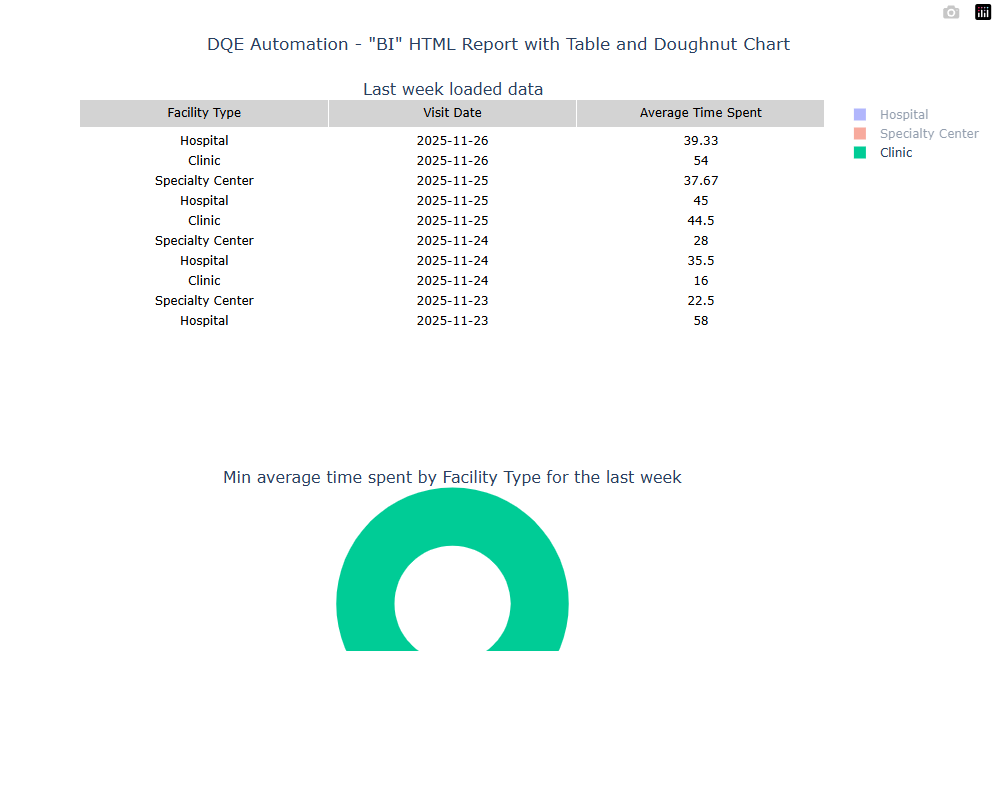
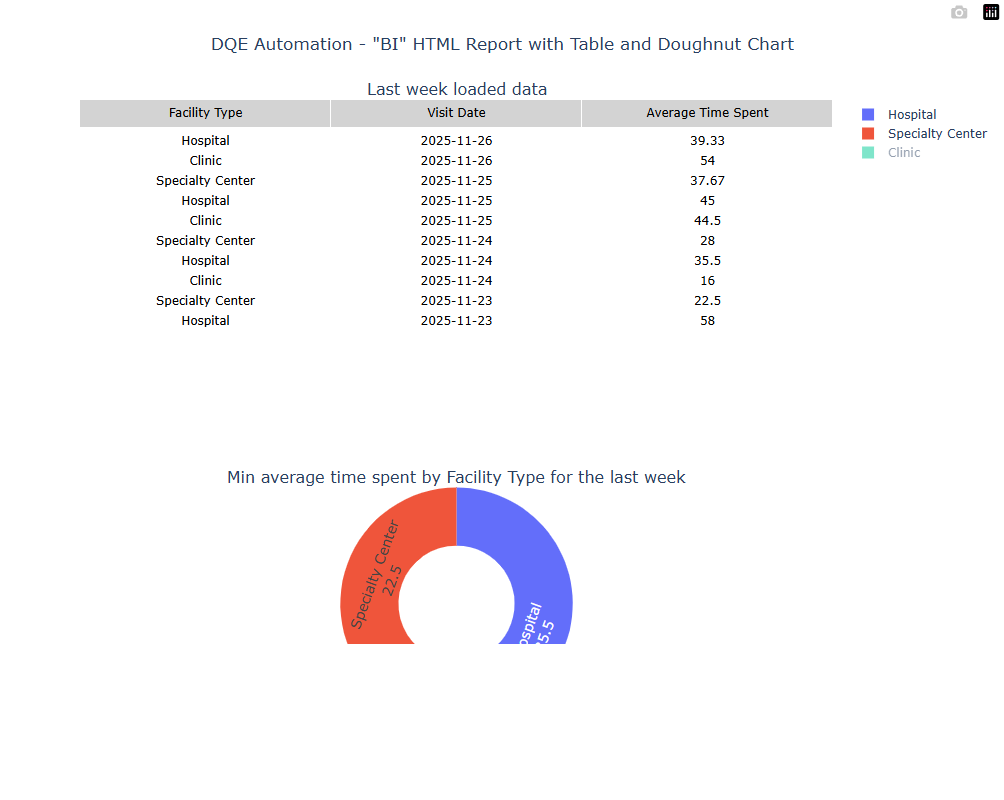
selenium4

diff --git a/Selenium Introduction/main.py b/Selenium Introduction/main.py
@@ -1,26 +1,24 @@
-
-import csv
-import os
-import time
+import csv, os, time
 from typing import List, Tuple, Dict, Any
 
 from selenium import webdriver
 from selenium.webdriver.common.by import By
-from selenium.webdriver.edge.options import Options
+# from selenium.webdriver.edge.options import Options
 from selenium.webdriver.support.ui import WebDriverWait
 from selenium.webdriver.support import expected_conditions as EC
 
+from selenium.webdriver import Chrome
+from selenium.webdriver.chrome.options import Options
 
 GRAPH_ID = "f2be9861-78e2-4f00-aa5f-9778ee33830a"
-
 
 # ---------- Driver & Page ----------
 
 def init_driver(headless: bool = False) -> Tuple[webdriver.Edge, WebDriverWait]:
     try:
         opts = Options()
-        # if headless: opts.add_argument("--headless=new")
-        driver = webdriver.Edge(options=opts)
+        # driver = webdriver.Edge(options=opts)
+        driver = Chrome(options=opts)
         wait = WebDriverWait(driver, 20)
         return driver, wait
     except Exception as e:
@@ -184,39 +182,37 @@ def run(headless: bool = False, report_path: str = "report.html") -> None:
         svg = get_svg(graph, wait)
 
         # Initial doughnut
+
+        # Initial doughnut
         screenshot_idx = 0
         csv_idx = 0
         pairs, screenshot_idx = extract_doughnut_chart(driver, graph, svg, screenshot_idx)
         csv_idx = save_doughnut_data(pairs, csv_idx)
 
-        # Iterate filters: one label visible at a time
+        # Iterate: each next state hides one more label than previous
         state = js_get_pie_state(driver, graph)
         labels = state.get("labels", [])
         if labels:
-            for lbl in labels:
+            # Кроки:
+            # 1) приховати 1-й лейбл -> залишиться N-1 сегмент
+            # 2) приховати 1-й і 2-й -> залишиться N-2 сегменти
+            # ...
+            # N) приховати всі -> 0 сегментів
+            for hide_count in range(1, len(labels) + 1):
                 try:
                     before = js_get_pie_state(driver, graph).get("hiddenlabels", [])
-                    hidden = [x for x in labels if x != lbl]
+                    hidden = labels[:hide_count]  # прогресивно додаємо приховані
                     js_set_hiddenlabels(driver, graph, hidden)
                     wait_hiddenlabels_change(driver, graph, before)
+                    # невелика пауза, щоб рендер стабілізувався
+                    time.sleep(0.2)
                     pairs, screenshot_idx = extract_doughnut_chart(driver, graph, svg, screenshot_idx)
                     csv_idx = save_doughnut_data(pairs, csv_idx)
                 except Exception as e:
-                    print(f"⚠ Filter '{lbl}' failed: {e}")
-                    continue
+                    print(f"⚠ Progressive hide step {hide_count} failed: {e}")
+                    break
         else:
-            print("⚠ No pie labels found; skipping filter iteration")
-
-        # Edge case: all hidden
-        if labels:
-            try:
-                before_all = js_get_pie_state(driver, graph).get("hiddenlabels", [])
-                js_set_hiddenlabels(driver, graph, labels)
-                wait_hiddenlabels_change(driver, graph, before_all)
-                pairs, screenshot_idx = extract_doughnut_chart(driver, graph, svg, screenshot_idx)
-                csv_idx = save_doughnut_data(pairs, csv_idx)
-            except Exception as e:
-                print(f"⚠ Edge case 'all hidden' failed: {e}")
+            print("⚠ No pie labels found; skipping progressive iteration")
 
         # Extract table (optional save)
         table_data = extract_table(driver, graph)
